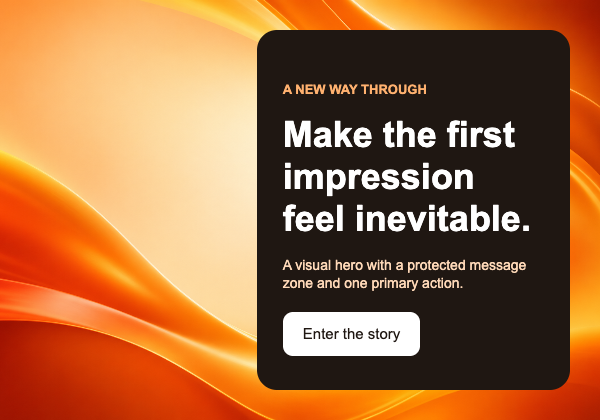
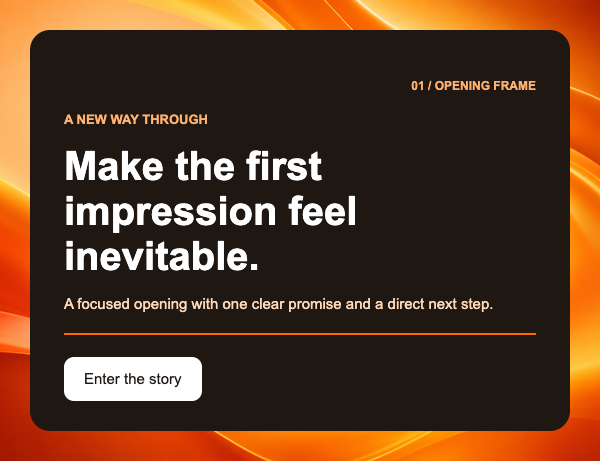
fix(catalog): redesign header 5 layout

diff --git a/src/shared/assets/css/preview.css b/src/shared/assets/css/preview.css
@@ -245,7 +245,8 @@ a {
   line-height: 0 !important;
 }
 
-.p-preview-mobile .e-mobile-hidden {
+.p-preview-mobile .e-mobile-hidden,
+.p-preview-mobile td.e-mobile-hidden {
   display: none !important;
   max-height: 0 !important;
   overflow: hidden !important;

diff --git a/src/features/email-preview/constants.ts b/src/features/email-preview/constants.ts
@@ -28,7 +28,8 @@ export const EMAIL_RESPONSIVE_CSS = `
     line-height: 0 !important;
   }
 
-  .e-mobile-hidden {
+  .e-mobile-hidden,
+  td.e-mobile-hidden {
     display: none !important;
     max-height: 0 !important;
     overflow: hidden !important;
